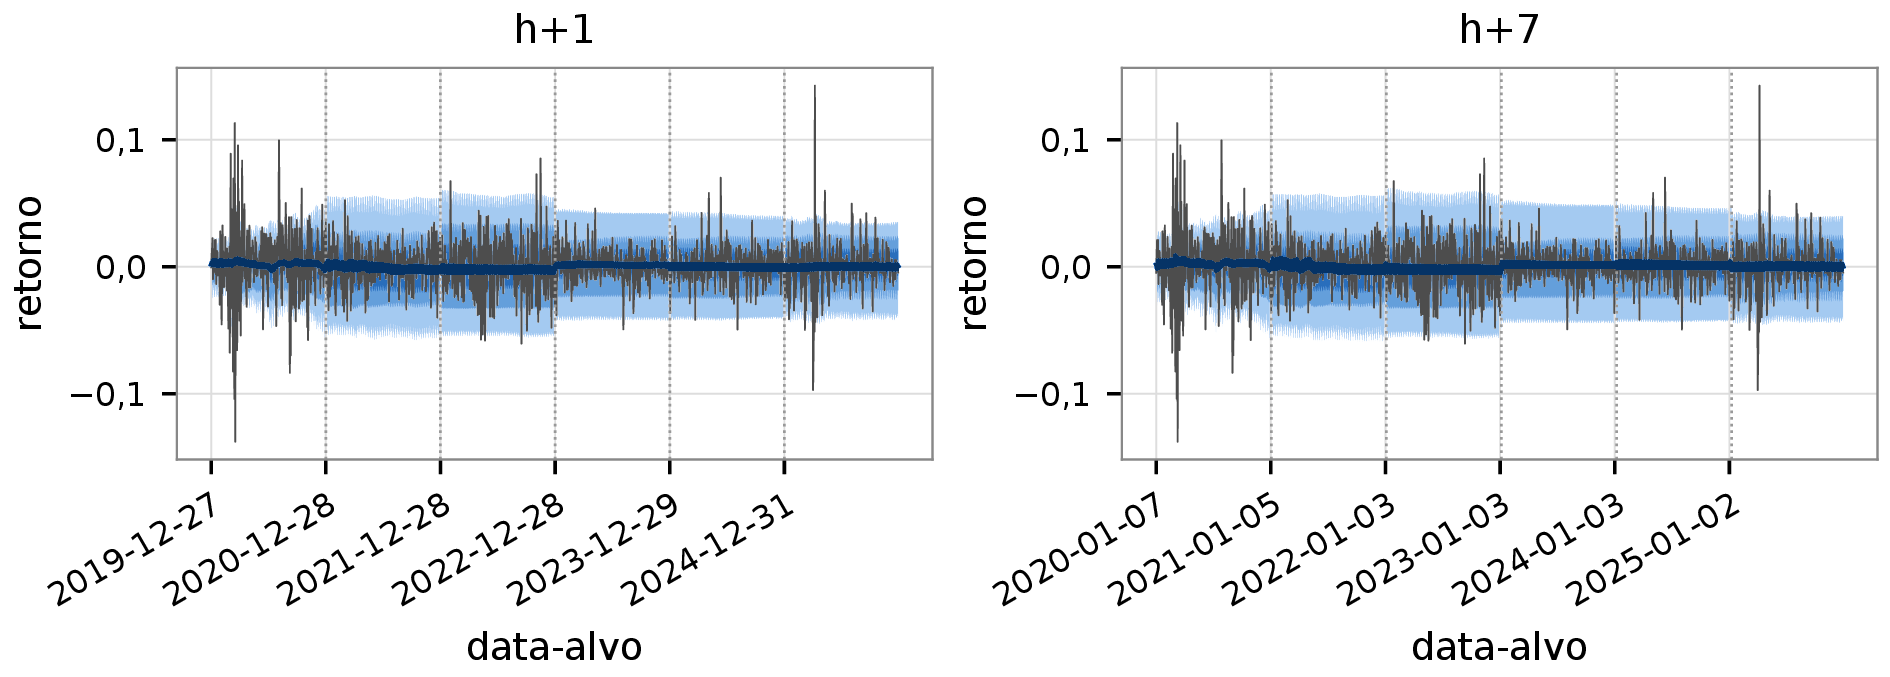
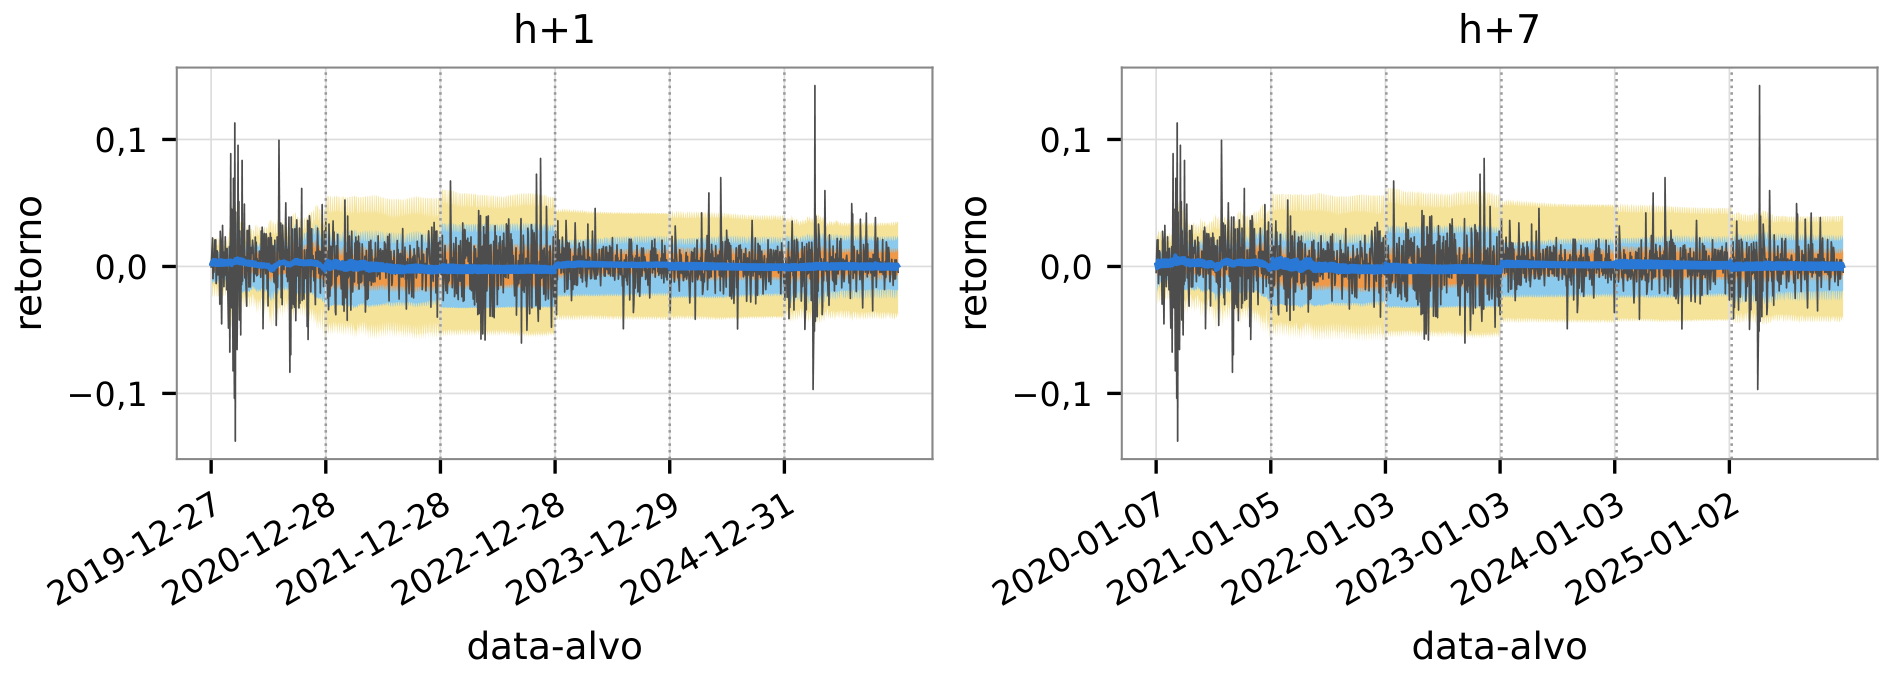
docs(tcc): legendas de cor, figura ilustrativa de um dia e reservas novas nos slides
- chaves de cor com as cores reais das figuras no fan chart, no diagrama de confiabilidade e nas reservas de PICP x MPIW e de perda por nível de quantil
- faixas do fan chart do slide em cores distintas (recolore_fan_chart.py); a figura do texto não muda
- eixos e linha da pinball explicados no slide de como se mede
- slide "Um dia: os sete quantis" com a figura ilustrativa (dados simulados)
- reservas novas: quantis por família, um dia e todos os dias, matriz completa do MCS e hiperparâmetros finais
- cabeçalho registra as exceções à regra de números iguais ao texto e o novo tempo estimado

Refs #272

diff --git a/text/apresentacao/apresentacao.tex b/text/apresentacao/apresentacao.tex
@@ -2,9 +2,17 @@
 % Compilar com pdflatex (latexmk -pdf) a partir de text/apresentacao/.
 % Regra: todo número dos slides aparece igual no texto do TCC. Cada frame anota,
 % em comentário, a seção do texto de onde vem cada número e o tempo estimado.
+% Exceções, todas identificadas no próprio slide: as figuras ilustrativas (dados
+% simulados: "Um dia: os sete quantis" e as reservas de quantis por modelo e de um dia
+% contra todos os dias) e as duas reservas com dados do repositório que não estão
+% publicados no texto (matriz completa do MCS e hiperparâmetros finais).
+% O fan chart do slide tem as faixas recoloridas (recolore_fan_chart.py); os dados e
+% os traços são os da figura do texto.
+% As chaves de cor dos slides usam as cores reais das figuras (MODEL_STYLES em
+% matplotlib_figure_renderer.py; faixas do fan chart em recolore_fan_chart.py).
 % Tempo-alvo: até 20 min (Art. 16 do regulamento de TCC do Campus Joinville).
-% Estimativa: abertura 0,3 min + 16 slides de conteúdo (de 0,9 a 1,3 min cada,
-% somando 18,2 min) = 18,5 min; encerramento e reservas ficam fora do tempo.
+% Estimativa: abertura 0,3 min + 17 slides de conteúdo (de 0,5 a 1,3 min cada,
+% somando 18,7 min) = 19,0 min; encerramento e reservas ficam fora do tempo.
 % Revisão do orientador (#272): o piloto foi para a reserva e entrou o slide do TFT.
 % As figuras recortadas vêm de ../figuras/slides/ (PNG gerado por recortes.sh), e não
 % de trim + clip, que deixava a parte cortada escondida dentro do PDF.
@@ -33,6 +41,24 @@
 
 \newcommand{\hum}{\(h{+}1\)}
 \newcommand{\hsete}{\(h{+}7\)}
+
+% Cores reais das figuras, para as chaves de cor (ver cabeçalho).
+\definecolor{cTFT}{HTML}{2A78D6}
+\definecolor{cNulo}{HTML}{EB6834}
+\definecolor{cMedia}{HTML}{1BAF7A}
+\definecolor{cAR}{HTML}{EDA100}
+\definecolor{cEWMA}{HTML}{E87BA4}
+\definecolor{cEmp}{HTML}{008300}
+\definecolor{cGBM}{HTML}{6250D6}
+\definecolor{cObs}{HTML}{4D4D4D}
+\definecolor{cFold}{HTML}{999999}
+\definecolor{cF50}{HTML}{EF9A48}
+\definecolor{cF80}{HTML}{8CCAEE}
+\definecolor{cF96}{HTML}{F6E49A}
+% Amostras da chave: quadrado (faixa), linha (opção: estilo) e ponto (marcador).
+\newcommand{\chsq}[1]{\tikz[baseline=-0.55ex]\fill[#1,draw=black!40,line width=0.2pt] (0,-0.1) rectangle (0.26,0.12);}
+\newcommand{\chln}[2][]{\tikz[baseline=-0.55ex]\draw[#2,line width=1.4pt,#1] (0,0) -- (0.5,0);}
+\newcommand{\chpt}[1]{\tikz[baseline=-0.55ex]\fill[#1] (0,0) circle (0.08);}
 
 \title{Avaliação pré-registrada do\\ \textit{Temporal Fusion Transformer}}
 \subtitle{Na previsão probabilística de retornos diários das ações da Apple}
@@ -78,7 +104,11 @@
 % semente ilustrativa (Cap. 5, Cenários experimentais, parágrafo da Figura do fan chart).
 \begin{frame}{O que é uma previsão quantílica}
   \centering
-  \includegraphics[width=0.9\textwidth]{slides/oos_fan_chart.png}
+  \includegraphics[width=0.82\textwidth]{slides/oos_fan_chart.png}
+
+  {\footnotesize \chsq{cF50} faixa de 50\% \quad \chsq{cF80} 80\% \quad \chsq{cF96} 96\%
+    \quad \chln{cTFT} mediana \quad \chln[line width=0.6pt]{cObs} retorno realizado
+    \quad \chln[dotted,line width=0.8pt]{cFold} troca de \textit{fold}\par}
 
   \vspace{-2pt}
   \begin{columns}[T]
@@ -97,6 +127,18 @@
       \end{itemize}
     \end{column}
   \end{columns}
+\end{frame}
+
+% ---------------------------------------------------------------------------
+% 2b. Um dia: os sete quantis --- tempo: 0,5 min (acréscimo para a defesa)
+% Figura ilustrativa, dados simulados (TCC-imagens/34); nenhum número do texto.
+\begin{frame}{Um dia: os sete quantis}
+  \centering
+  \includegraphics[width=\textwidth,height=0.68\textheight,keepaspectratio]{slides/extra/34_TFT_um_dia_7quantis.png}
+
+  De cada dia saem 7 quantis; a sequência dos dias forma as faixas.
+
+  {\footnotesize\color{black!60} Ilustrativo, dados simulados.}
 \end{frame}
 
 % ---------------------------------------------------------------------------
@@ -121,7 +163,9 @@
         \node[anchor=south,align=center] at (-0.7,0.2) {abaixo do quantil:\\ inclinação \(0{,}1\)};
       \end{tikzpicture}
 
-      {\small Exemplo: quantil \(\tau = 0{,}9\).}
+      \raggedright
+      {\footnotesize Eixo x: erro \(y-\hat q\) (retorno observado menos quantil
+      previsto); eixo y: perda; linha: \textit{pinball} para \(\tau = 0{,}9\).\par}
       \par
       \raggedright
       \small Penaliza os erros de forma assimétrica. O valor esperado é mínimo
@@ -368,12 +412,15 @@
   \begin{columns}[T]
     \begin{column}{0.5\textwidth}
       \centering
-      \includegraphics[height=0.55\textheight]{slides/reliability_diagram.png}
+      \includegraphics[height=0.5\textheight]{slides/reliability_diagram.png}
+
+      {\scriptsize \chpt{cTFT} TFT \enspace \chpt{cAR} AR(1) \enspace \chpt{cEWMA} EWMA-vol
+        \enspace \chpt{cEmp} quantis empíricos \enspace \chpt{cGBM} GBM
+        \enspace \chln[dashed,line width=0.6pt]{cObs} diagonal\par}
 
       \raggedright
       {\small Frequência observada abaixo de cada quantil, em \hum; diagonal: calibração
-      perfeita. TFT em azul; comparadores, em outras cores, quase sobrepostos.
-      Em \hsete, o quadro é o mesmo.}
+      perfeita. Os modelos ficam quase sobrepostos. Em \hsete, o quadro é o mesmo.}
     \end{column}
     \begin{column}{0.48\textwidth}
       \small
@@ -744,7 +791,14 @@
   \begin{columns}[T]
     \begin{column}{0.58\textwidth}
       \centering
-      \includegraphics[height=0.68\textheight]{slides/picp_mpiw_plot.png}
+      \includegraphics[height=0.6\textheight]{slides/picp_mpiw_plot.png}
+
+      {\scriptsize \chpt{cTFT} TFT \enspace \chpt{cGBM} GBM \enspace \chpt{cEWMA} EWMA-vol
+        \enspace \chpt{cAR} AR(1) \enspace \mbox{\chpt{cEmp} quantis empíricos}\\
+        TFT com barra: média das sementes (mín--máx)\\
+        \mbox{nominal: \chln[dashed,line width=0.6pt]{cObs} 96\%
+        \enspace \chln[dotted,line width=0.8pt]{cObs} 80\%
+        \enspace \chln[dash dot,line width=0.6pt]{cObs} 50\%}\par}
     \end{column}
     \begin{column}{0.4\textwidth}
       \small
@@ -770,10 +824,15 @@
       \centering
       \includegraphics[height=0.58\textheight]{slides/quantile_score_plot.png}
 
+      {\scriptsize \mbox{\chpt{cTFT} TFT (sementes)} \enspace \mbox{\chln{cTFT} TFT (média)}
+        \enspace \mbox{\chln[dashed]{cNulo} retorno nulo}\\
+        \mbox{\chln[dash dot]{cMedia} média histórica} \enspace \mbox{\chln[dotted]{cAR} AR(1)}
+        \enspace \mbox{\chln[dashed]{cEWMA} EWMA-vol}\\
+        \mbox{\chln[dash dot]{cEmp} quantis empíricos} \enspace \mbox{\chln[dotted]{cGBM} GBM}\par}
+
       \raggedright
-      {\small \hum. TFT em azul (as dez sementes e a média delas); ingênuos tracejados
-      (retorno nulo em laranja, média histórica em verde); os demais quase se sobrepõem
-      ao TFT. O painel de \hsete{} é praticamente igual.}
+      {\small \hum. Os fortes quase se sobrepõem ao TFT. O painel de \hsete{} é
+      praticamente igual.}
     \end{column}
     \begin{column}{0.38\textwidth}
       \small
@@ -893,6 +952,39 @@
     \item Cegamento declarado: as tabelas rodaram uma vez antes do pré-registro, numa
       verificação técnica; nenhum valor de desempenho foi lido.
   \end{itemize}
+\end{frame}
+
+% Reservas 12 a 15 --- imagens de TCC-imagens (32, 33, 26 e 27), as mesmas de
+% ../figuras/apoio/. As duas primeiras são ilustrativas (dados simulados); as duas
+% últimas usam dados do repositório que não estão publicados no texto do TCC.
+\begin{frame}{Reserva --- Como cada modelo produz os quantis}
+  \centering
+  \includegraphics[width=\textwidth,height=0.76\textheight,keepaspectratio]{apoio/32_quantis_sino_por_familia.png}
+
+  {\footnotesize\color{black!60} Ilustrativo, dados simulados.}
+\end{frame}
+
+\begin{frame}{Reserva --- Um dia e todos os dias: TFT e EWMA-vol}
+  \centering
+  \includegraphics[width=\textwidth,height=0.76\textheight,keepaspectratio]{apoio/33_previsao_dia_vs_total.png}
+
+  {\footnotesize\color{black!60} Ilustrativo, dados simulados.}
+\end{frame}
+
+\begin{frame}{Reserva --- MCS: comparação de todos os pares}
+  \centering
+  \includegraphics[width=\textwidth,height=0.76\textheight,keepaspectratio]{apoio/26_MCS_matriz_pares_completa.png}
+
+  {\footnotesize\color{black!60} Calculada de \textit{gold\_loss\_differentials} da rodada
+  confirmatória; não publicada no texto do TCC.}
+\end{frame}
+
+\begin{frame}{Reserva --- Hiperparâmetros finais}
+  \centering
+  \includegraphics[width=\textwidth,height=0.76\textheight,keepaspectratio]{apoio/27_hiperparametros_TFT_GBM.png}
+
+  {\footnotesize\color{black!60} Fonte: \textit{config/cohorts/aapl\_confirmatory.toml};
+  esses valores não estão no texto do TCC.}
 \end{frame}
 
 % ===========================================================================

diff --git a/text/apresentacao/recolore_fan_chart.py b/text/apresentacao/recolore_fan_chart.py
@@ -1,0 +1,49 @@
+"""Recorte do fan chart para o slide, com as faixas em matizes distintos.
+
+Na figura do texto (../figuras/oos_fan_chart.pdf, que não muda) as três faixas são o
+mesmo azul com transparências diferentes; no projetor ficavam difíceis de separar.
+Aqui cada faixa vira uma cor opaca. Como as faixas são desenhadas de fora para dentro
+(96%, 80%, 50%), cada uma cobre exatamente a de fora: nenhum dado ou traço muda, só a
+cor de preenchimento. A chave de cores do slide usa as mesmas cores.
+
+Rodar a partir de text/apresentacao/, depois de recortes.sh (que regrava o PNG):
+    uv run --no-project --with pymupdf python recolore_fan_chart.py
+"""
+
+import re
+
+import pymupdf
+
+SOURCE = "../figuras/oos_fan_chart.pdf"
+TARGET = "../figuras/slides/oos_fan_chart.png"
+CLIP = pymupdf.Rect(0, 0, 453.6, 162.4)  # o mesmo recorte de recortes.sh (sem a legenda)
+BLUE = rb"0\.1647058824\s+0\.4705882353\s+0\.8392156863\s+rg"  # #2a78d6, cor do TFT
+# Estado gráfico da faixa (/A2: 96%, /A3: 80%, /A4: 50%) -> cor opaca.
+BANDS = {b"2": "f6e49a", b"3": "8ccaee", b"4": "ef9a48"}
+EXPECTED = 6  # três faixas em cada um dos dois painéis
+
+
+def _rg(hex_color: str) -> bytes:
+    return " ".join(f"{int(hex_color[i : i + 2], 16) / 255:.4f}" for i in (0, 2, 4)).encode() + b" rg"
+
+
+def main() -> None:
+    doc = pymupdf.open(SOURCE)
+    page = doc[0]
+    pattern = re.compile(rb"/A([234]) gs\s+" + BLUE + rb"\s+1 j 0 G\s+" + BLUE)
+    total = 0
+    for xref in page.get_contents():
+        stream = doc.xref_stream(xref)
+        stream, count = pattern.subn(
+            lambda m: b"/A5 gs\n" + _rg(BANDS[m.group(1)]) + b" 1 j 0 G " + _rg(BANDS[m.group(1)]),
+            stream,
+        )
+        total += count
+        doc.update_stream(xref, stream)
+    if total != EXPECTED:
+        raise SystemExit(f"esperava {EXPECTED} faixas, achei {total}: a figura mudou?")
+    page.get_pixmap(dpi=300, clip=CLIP).save(TARGET)
+
+
+if __name__ == "__main__":
+    main()
